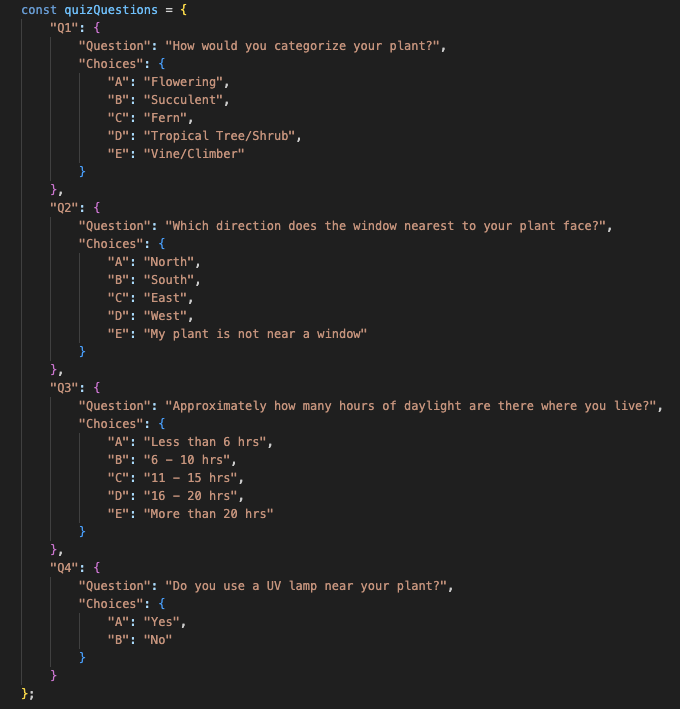
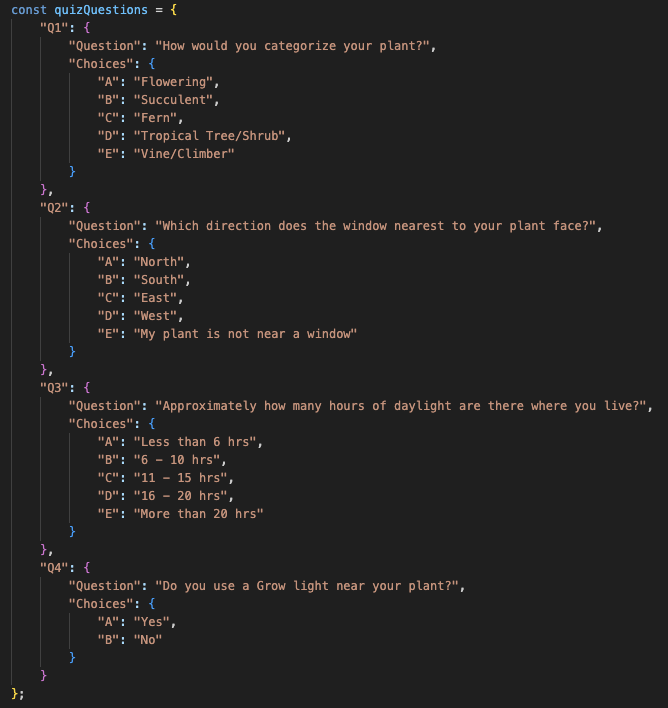
just need to add information error responses in the post route and it will be done

diff --git a/server/quiz_modules/GenerateRecommendation.js b/server/quiz_modules/GenerateRecommendation.js
@@ -1,0 +1,132 @@
+// plant type light ranges
+const MIN_FLOWERING =   160;
+const MAX_FLOWERING =   220;
+const MIN_SUCCULENT =   120;
+const MAX_SUCCULENT =   160;
+const MIN_FERN =        100;
+const MAX_FERN =        140;
+const MIN_TROPICAL =    120;
+const MAX_TROPICAL =    160;
+const MIN_VINE =        170;
+const MAX_VINE =        210;
+
+// window direction values
+const NORTH =   50;
+const SOUTH =   100;
+const EAST =    65;
+const WEST =    75;
+const NO_WINDOW = 0;
+
+// hours of daylight values
+const LESS_SIX =        20;
+const SIX_TEN =         40;
+const ELEVEN_FIFTEEN =  60;
+const SIXTEEN_TWENTY =  80;
+const MORE_TWENTY =     100;
+
+// uv light values
+const NO_GROW_LIGHT =  0; 
+const HAS_GROW_LIGHT = 100;
+
+// response blurbs
+const NEEDS_MORE_LIGHT =        "Based on your responses, it sounds like your plant may not be getting enough light. To increase the amount of light that your plant gets, try moving your plant to a south-facing window, or try out a Grow light to substitute natural light. If you are already using a Grow light, you could try changing the settings such that the light emits high frequency rays at longer time intervals";
+const GETTING_ENOUGH_LIGHT =    "Based on your responses, it sounds like your plant is getting just the right amount of light for its needs. Keep up what you are doing, and your plant should stay happy!";
+const NEEDS_LESS_LIGHT =        "Based on your responses, it sounds like your plant may be getting too much light. To lessen the amount of light that your plant receives throughout the day, you could move the plant to a north-facing window or to an east-facing window. If you are using a Grow light, you may consider changing its settings such that it emits lower frequency light at smaller time intervals."; 
+
+
+function determineMinMax(response) {
+    if (response === 'A') {
+        return [MIN_FLOWERING, MAX_FLOWERING];
+    } else if (response === 'B') {
+        return [MIN_SUCCULENT, MAX_SUCCULENT];
+    } else if (response === 'C') {
+        return [MIN_FERN, MAX_FERN];
+    } else if (response === 'D') {
+        return [MIN_TROPICAL, MAX_TROPICAL];
+    } else if (response === 'E') {
+        return [MIN_VINE, MAX_VINE]
+    } else {
+        return "Error"
+    }
+};
+
+function windowScore(response) {
+    if (response === 'A') {
+        return NORTH;
+    } else if (response === 'B') {
+        return SOUTH;
+    } else if (response === 'C') {
+        return EAST;
+    } else if (response === 'D') {
+        return WEST;
+    } else if (response === 'E') {
+        return NO_WINDOW;
+    } else {
+        return "Error"
+    }
+};
+
+function daylightScore(response) {
+    if (response === 'A') {
+        return LESS_SIX;
+    } else if (response === 'B') {
+        return SIX_TEN;
+    } else if (response === 'C') {
+        return ELEVEN_FIFTEEN;
+    } else if (response === 'D') {
+        return SIXTEEN_TWENTY;
+    } else if (response === 'E') {
+        return MORE_TWENTY;
+    } else {
+        return "Error"
+    }
+};
+
+function growLightScore(response) {
+    if (response === 'A') {
+        return HAS_GROW_LIGHT;
+    } else if (response === 'B') {
+        return NO_GROW_LIGHT;
+    } else {
+        return "Error"
+    }
+};
+
+function GenerateRecommendation(responses) {
+    const min_max_range = determineMinMax(responses[0]);
+    if (min_max_range === "Error") {
+        console.log("ERROR");
+        return;
+        // ADD ERROR RESPONSE HERE
+    }
+    let light_sum = 0;
+    const window_score = windowScore(responses[1]);
+    if (window_score === "Error") {
+        console.log("ERROR");
+        return;
+        // ADD ERROR RESPONSE HERE
+    }
+    const daylight_score = daylightScore(responses[2]);
+    if (daylight_score === "Error") {
+        console.log("ERROR");
+        return;
+        // ADD ERROR RESPONSE HERE
+    }
+    const grow_light_score = growLightScore(responses[3]);
+    if (daylight_score === "Error") {
+        console.log("ERROR");
+        return;
+        // ADD ERROR RESPONSE HERE
+    }
+    light_sum += (window_score + daylight_score + grow_light_score);
+    if (light_sum < min_max_range[0]) {
+        console.log(NEEDS_MORE_LIGHT);
+        return NEEDS_MORE_LIGHT;
+    } else if (light_sum > min_max_range[1]) {
+        console.log(NEEDS_LESS_LIGHT);
+        return NEEDS_LESS_LIGHT;
+    }
+    return GETTING_ENOUGH_LIGHT;
+}
+
+module.exports = GenerateRecommendation;

diff --git a/server/server.js b/server/server.js
@@ -6,6 +6,8 @@ const cors = require('cors');
 
 const app = express();
 
+const GenerateRecommendation = require('./quiz_modules/GenerateRecommendation');
+
 app.use(express.json());
 app.use(cors());
 app.use((req, res, next) => {
@@ -23,8 +25,8 @@ app.get('/quiz', (req, res) => {
 
 app.post('/quiz', (req, res) => {
     const {quizResults} = req.body;
-    console.log(quizResults);
-    res.json({recommendation: 'This is where I will return the recommendation'})
+    const light_recommendation = GenerateRecommendation(quizResults);
+    res.json({recommendation: light_recommendation})
 });
 
 app.listen(process.env.PORT, () => {

diff --git a/server/quiz_modules/QuizQuestionsModule.js b/server/quiz_modules/QuizQuestionsModule.js
@@ -30,7 +30,7 @@ const quizQuestions = {
         }
     },
     "Q4": {
-        "Question": "Do you use a UV lamp near your plant?",
+        "Question": "Do you use a Grow light near your plant?",
         "Choices": {
             "A": "Yes",
             "B": "No"
